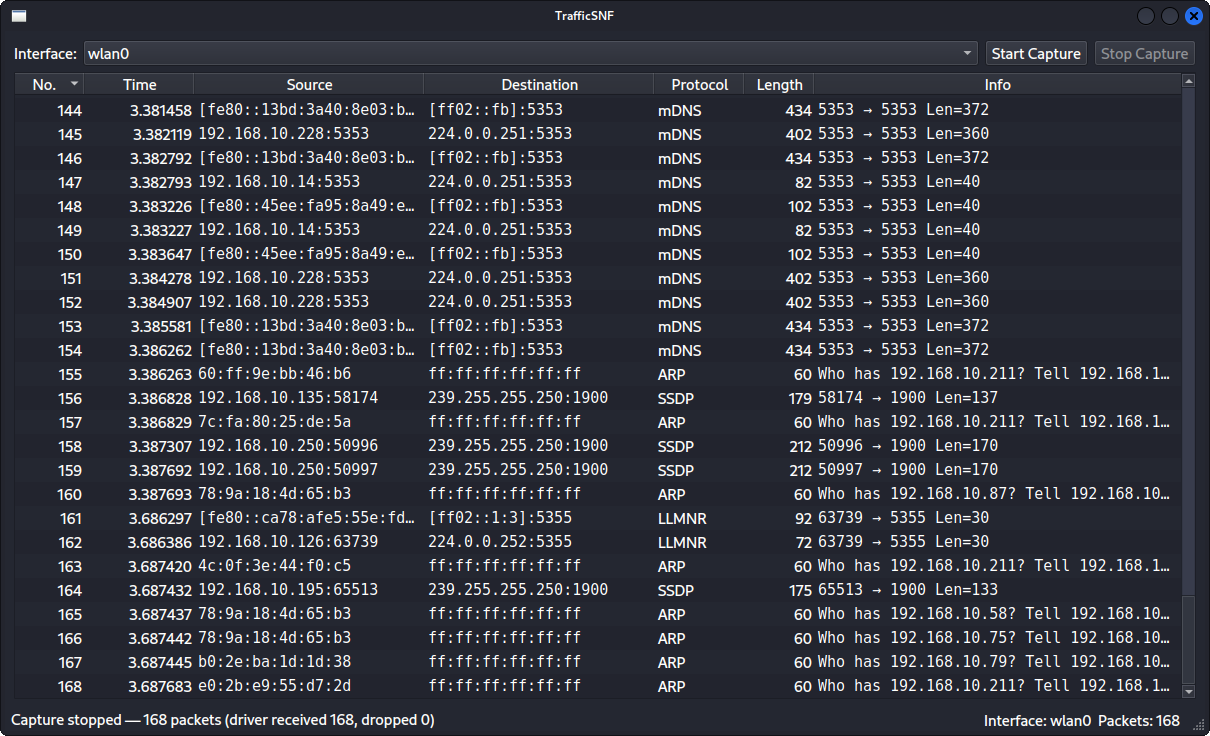
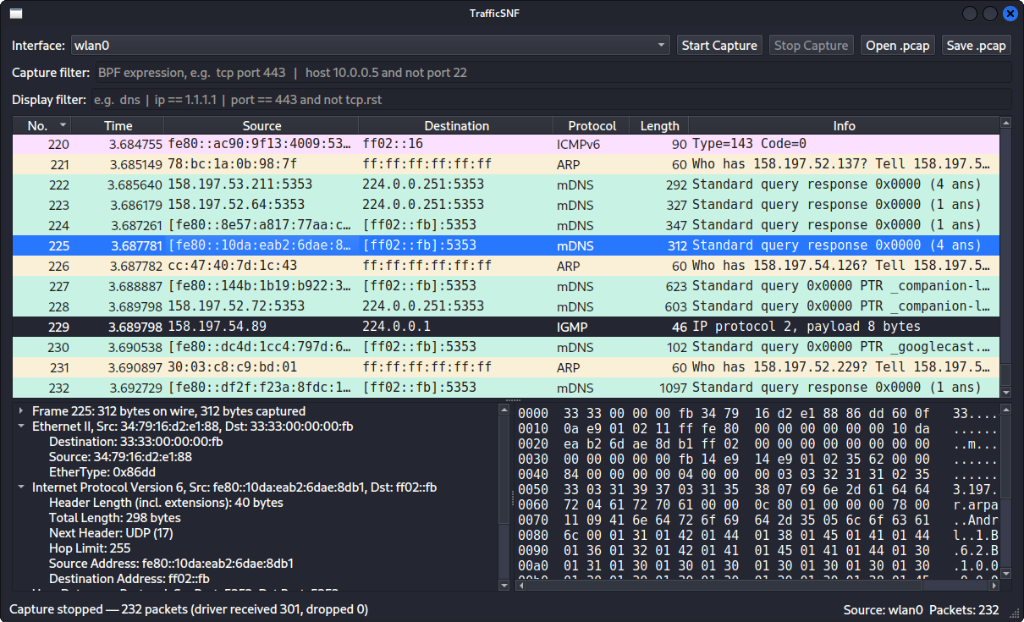
docs: update README and screenshot for v2.1

diff --git a/README.md b/README.md
@@ -8,13 +8,16 @@ A lightweight real-time packet sniffer with a native desktop GUI, written in C++
 
 ## Features
 
-- Lists network interfaces and captures live traffic on the one you pick
+- Lists network interfaces and captures live traffic with optional **BPF capture filters** (live syntax validation)
+- **Live display filter** with boolean expressions (`and`/`or`/`not`, `ip`, `ip.src`, `ip.dst`, `port`, `tcp.rst`, protocol names, or text search)
+- **Three-pane Wireshark-style layout**: colour-coded packet table, hierarchical **packet details tree**, and synchronized **hex + ASCII dump** with byte-range highlighting
+- **Open & Save `.pcap` files** (`Ctrl+O` / `Ctrl+S`) via `libpcap`
 - Capture runs on its own thread, so the UI stays responsive at high packet rates
 - Dissects packets on the fly:
-  - **L2:** Ethernet II, 802.1Q VLAN tags, loopback / null link types
+  - **L2:** Ethernet II, 802.1Q / 802.1ad VLAN tags, loopback / null link types, Linux cooked capture (`DLT_LINUX_SLL` / `DLT_LINUX_SLL2`)
   - **L3:** IPv4, IPv6 (including extension headers), ICMP / ICMPv6 with readable type names, IGMP, GRE, ESP, AH, OSPF, SCTP
-  - **L4:** TCP (ports, flags), UDP
-  - **L7 (by port and payload):** DNS, mDNS, LLMNR, DHCP, SSDP, HTTP, TLS (record type detected from the payload, not just the port), QUIC, SSH, SMB, RDP and about 40 other common services
+  - **L4:** TCP (ports, flags, seq/ack), UDP
+  - **L7 (by port and payload):** DNS/mDNS query & response summaries, HTTP request/status lines, TLS record types, QUIC, SSH, SMB, RDP and ~40 common services
 - Sortable packet table that auto-scrolls only while you're at the bottom, so you can stop and read without it jumping away
 - Driver statistics when the capture ends (packets received / dropped by the kernel)
 - Truncated or malformed packets still show up as rows instead of being dropped or crashing the parser
@@ -24,12 +27,15 @@ A lightweight real-time packet sniffer with a native desktop GUI, written in C++
 ```
 src/
 ├── main.cpp
-├── mainwindow.{h,cpp,ui}      # Qt Widgets UI: interface picker, start/stop, status bar
+├── mainwindow.{h,cpp,ui}      # Qt Widgets UI: controls, splitters, filters, status bar
+├── packet_details_widget.*    # Protocol-layer dissection tree with byte-range selection
+├── hex_view_widget.*          # Hex + ASCII byte viewer with synchronized highlighting
 └── core/
-    ├── sniffer_worker.*       # pcap capture loop on a QThread, batches packets
-    ├── protocol_parser.*      # bounds-checked dissector (Ethernet → IP → TCP/UDP/ICMP → app hint)
-    ├── packet_table_model.*   # QAbstractTableModel: batched inserts, index-based sorting
-    └── packet_types.h         # DissectedPacket, LayerInfo
+    ├── sniffer_worker.*       # pcap live/offline loop on QThread + .pcap writer
+    ├── protocol_parser.*      # bounds-checked dissector (L2 → L3 → L4 → app summary)
+    ├── packet_table_model.*   # QAbstractTableModel: batched inserts, protocol row colours
+    ├── packet_filter_proxy.*  # QSortFilterProxyModel: live display filter & sorting
+    └── packet_types.h         # DissectedPacket, LayerInfo, PacketFields
 ```
 
 How a packet moves through it:
